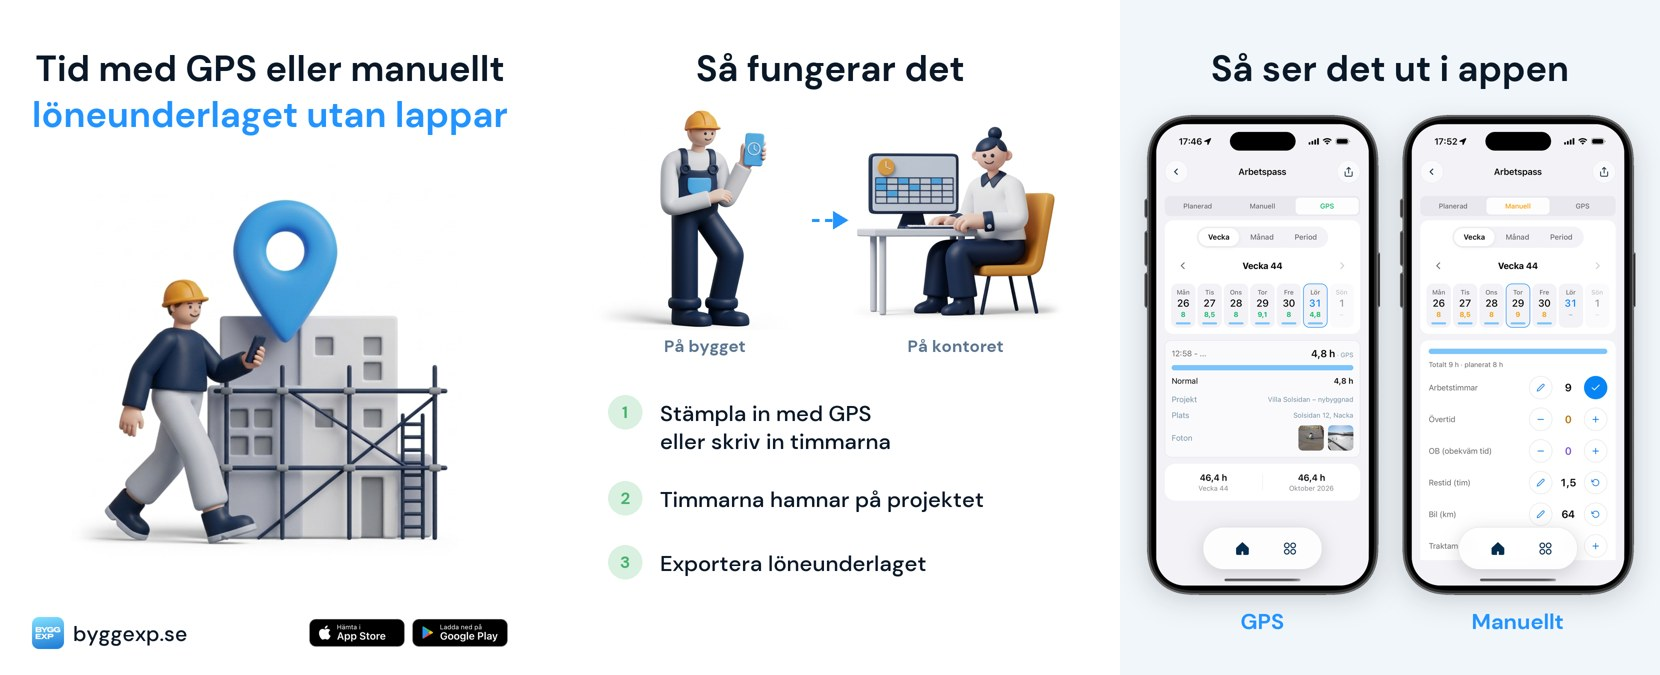
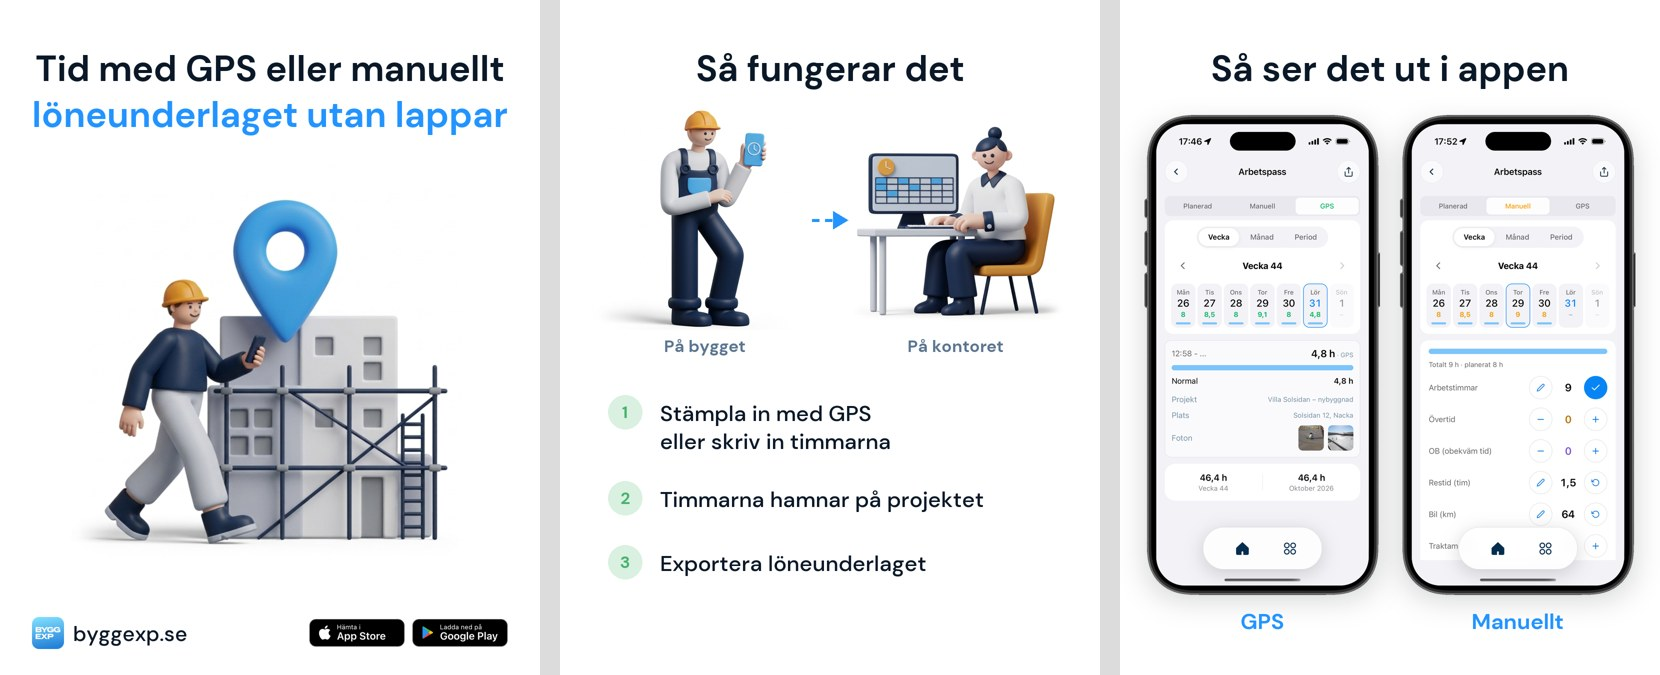
feat(smm): white background on all carousel slides
Claude-Session: https://claude.ai/code/session_015ffAXEftTHPL4eNP1AivUn

Changed region(s): [[0.6452, 0.0, 0.6759, 1.0], [0.3072, 0.0, 0.338, 1.0]]

diff --git a/design-assets/social/posts/make_3d.py b/design-assets/social/posts/make_3d.py
@@ -204,7 +204,7 @@ def phone(path):
 
 
 def slide_shot(shots, caption):
-    f = Image.new("RGBA", (W, H), (241, 246, 251, 255))
+    f = Image.new("RGBA", (W, H), (255, 255, 255, 255))  # all slides white (owner 2026-10-31)
     d = ImageDraw.Draw(f)
     d.text(((W - d.textlength(caption, font=font(72))) / 2, TOP), caption, font=font(72), fill=NAVY)
     from PIL import ImageFilter

diff --git a/design-assets/social/DESIGN-SYSTEM-SMM.md b/design-assets/social/DESIGN-SYSTEM-SMM.md
@@ -76,7 +76,7 @@
 
 **S26 · 2026-10-31 · Посты о функциях: под 3D — «как это работает», без цены.** Под 3D-картинкой 3 коротких шага (зелёные шарики 1-2-3, как в презентациях функций): что делает человек → что делает система → что получаешь. Человек, который видит функцию впервые, понимает логику. Цены на картинке нет, в тексте поста тоже нет (только «14 dagar gratis, ingen bindningstid»). Шаг — 1–2 строки, перенос сбалансированный, без одиночного слова. Отменяет S17/S18 для постов о функциях; цена остаётся на обложках и закрепе. Код: `posts/make_3d.py` (`steps`, `wrap`). Почему: владелец: «не надо везде цены ставить, расскажи подробнее про функцию, какая логика».
 
-**S27 · 2026-10-31 · Пост о функции = карусель из 3 картинок.** 1) 3D + заголовок-выгода (подпись byggexp.se + значки сторов — только здесь); 2) «Så fungerar det» — сверху связь «På bygget → På kontoret»: 3D рабочего с телефоном, синяя пунктирная стрелка, 3D женщины за компьютером (видно: человек ввёл — в компьютере уже есть); ниже 3 шага, длинный шаг переносится, не вылезает за край (`FLOW` в make_3d.py); 3) «Så ser det ut i appen» — настоящий экран в настоящем iPhone из презентаций (`byggexp-admin/docs/presentations/design-system/assets/screens/foto-phone.png`, титановая рамка, кнопки, Dynamic Island), не нарисованная рамка. Заголовки на всех слайдах выше (y 90). Скриншот — свежий из симулятора, во весь экран, без пустого низа, и показывает все поля, которые человек заполняет (часы, övertid, OB, restid, bil, traktamente, фото, kvitton), а не обрезанный кусок. Экран всегда с верха: вкладки и неделя видны, низ может обрезаться (владелец: «пускай верхняя часть видна»). Если у функции два способа — оба: тидрапорт = «GPS eller manuellt» в заголовке и шагах, на 3-й картинке два телефона с подписями «GPS» / «Manuellt». Код: `posts/make_3d.py` (`carousel`, `SHOTS`, скрины в `~/Desktop/SMM/app-shots/`). Почему: владелец: «одним постом 2–3 картинки», «заголовок выше», «телефон реальный», «подпись только на 1-й», «у нас не только GPS — мануальный ввод обязательно», «больше полей, где человек часы вводит».
+**S27 · 2026-10-31 · Пост о функции = карусель из 3 картинок.** 1) 3D + заголовок-выгода (подпись byggexp.se + значки сторов — только здесь); 2) «Så fungerar det» — сверху связь «På bygget → På kontoret»: 3D рабочего с телефоном, синяя пунктирная стрелка, 3D женщины за компьютером (видно: человек ввёл — в компьютере уже есть); ниже 3 шага, длинный шаг переносится, не вылезает за край (`FLOW` в make_3d.py); 3) «Så ser det ut i appen» — настоящий экран в настоящем iPhone из презентаций (`byggexp-admin/docs/presentations/design-system/assets/screens/foto-phone.png`, титановая рамка, кнопки, Dynamic Island), не нарисованная рамка. Заголовки на всех слайдах выше (y 90). Фон всех 3 картинок белый, без светло-голубого. Скриншот — свежий из симулятора, во весь экран, без пустого низа, и показывает все поля, которые человек заполняет (часы, övertid, OB, restid, bil, traktamente, фото, kvitton), а не обрезанный кусок. Экран всегда с верха: вкладки и неделя видны, низ может обрезаться (владелец: «пускай верхняя часть видна»). Если у функции два способа — оба: тидрапорт = «GPS eller manuellt» в заголовке и шагах, на 3-й картинке два телефона с подписями «GPS» / «Manuellt». Код: `posts/make_3d.py` (`carousel`, `SHOTS`, скрины в `~/Desktop/SMM/app-shots/`). Почему: владелец: «одним постом 2–3 картинки», «заголовок выше», «телефон реальный», «подпись только на 1-й», «у нас не только GPS — мануальный ввод обязательно», «больше полей, где человек часы вводит».
 
 **S7 · Текст.** Шведский, без кириллицы; только факты из `docs/seo/product-facts-verified.md`; ссылки с UTM.
 
